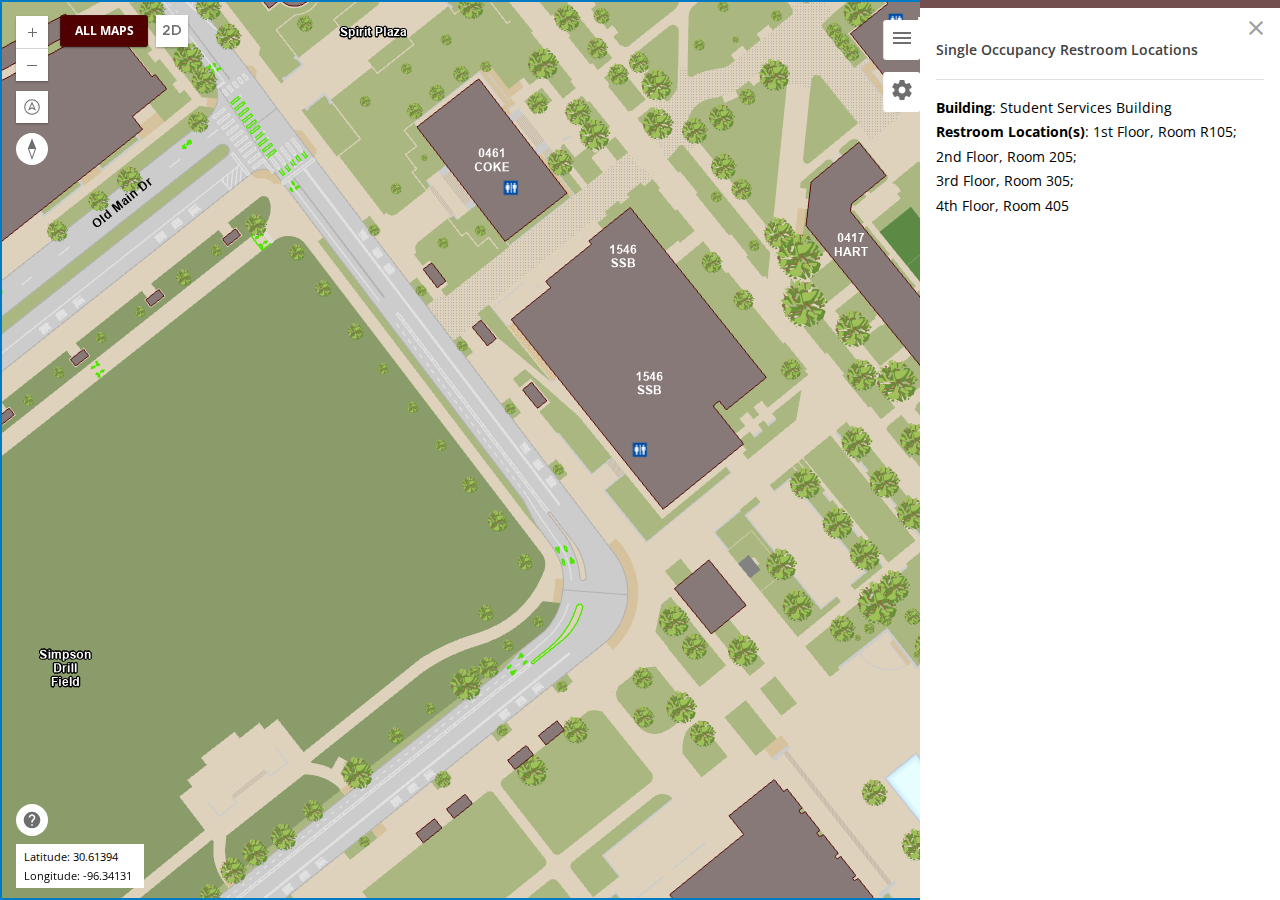
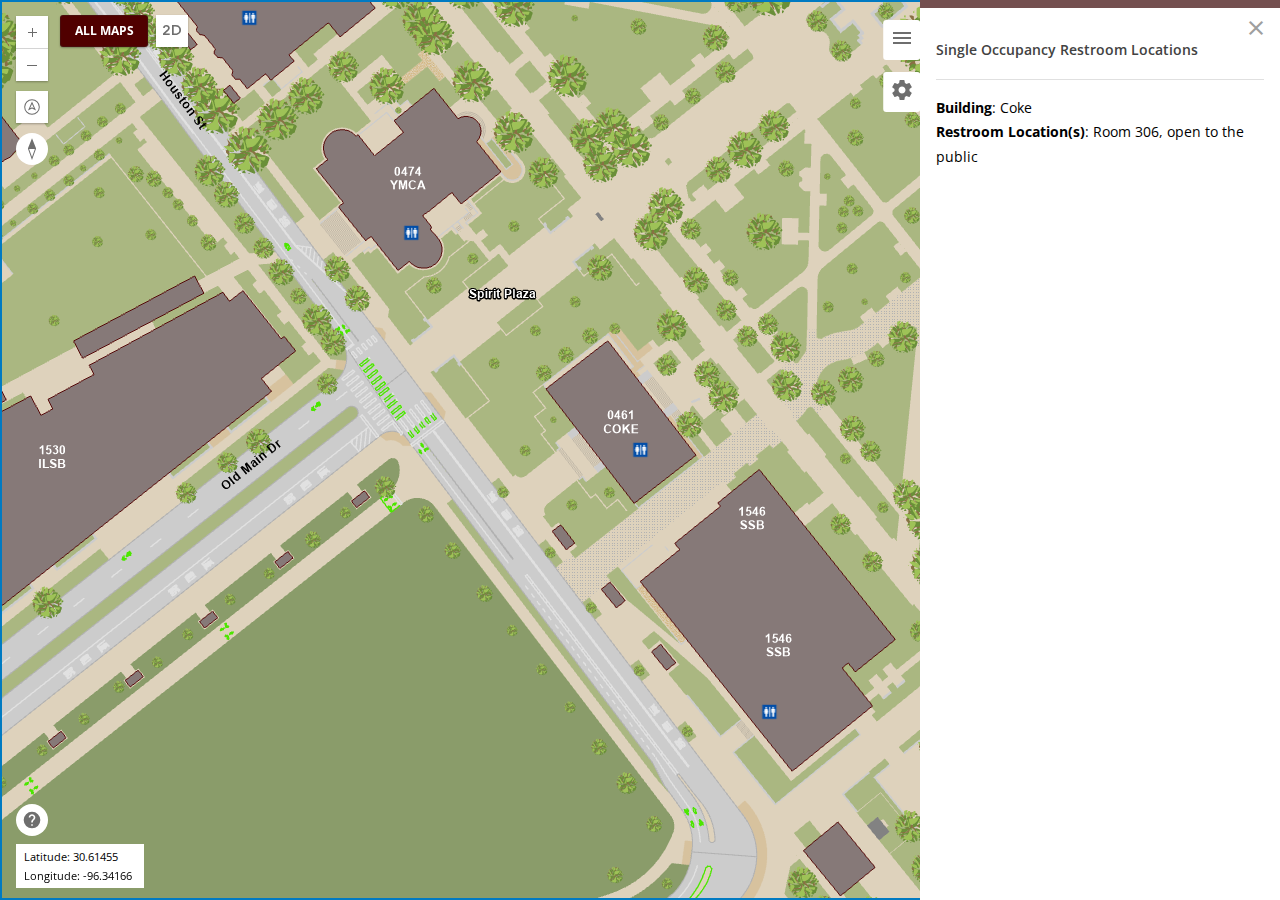
docs(aggiemap-angular): Release note and pictures for the restroom popup's building number (#1961)
Before: production today. After: this branch, built and served at 127.0.0.1 with ?as=production, so it
reads production's GIS server as dev cannot (#1005). Both on the Coke Building's restroom, whose number is
right; the Student Services Building's is wrong in the service (#2529).

diff --git a/libs/aggiemap/ngx/popups/src/lib/components/restroom/restroom.component.spec.ts b/libs/aggiemap/ngx/popups/src/lib/components/restroom/restroom.component.spec.ts
@@ -16,7 +16,8 @@ import { RestroomPopupComponent } from './restroom.component';
  *
  * The service names the building number `BldgNum`; the popup read `Bldg_Number`, which it does not
  * have, so "Building Number:" was always empty. The restroom below is one of the service's own, as it
- * answered on 28 October 2026. Its `Notes` are written with <br>, so they are rendered as HTML.
+ * answered on 28 October 2026. Its `Notes` are written with <br>, so they are rendered as HTML. Its building
+ * number is wrong in the service (the building is 1546, #2529); the popup shows what the service holds.
  */
 const RESTROOM = {
   OBJECTID: 407,

diff --git a/docs/releases/unreleased/1961-restroom-popup.md b/docs/releases/unreleased/1961-restroom-popup.md
@@ -1,0 +1,18 @@
+---
+issue: 1961
+title: The restroom popup shows the building number
+testOnDev: |
+  | The Single Occupancy Restroom popup ([#1961](https://github.com/TamuGeoInnovation/Tamu.GeoInnovation.js.monorepo/issues/1961)) | [The main map as production shows it](https://dev.aggiemap.tamu.edu/map/d?as=production): turn on **Single Occupancy Restroom Locations** under Layers, then click a restroom symbol, for example the one on the Coke Building, beside Spirit Plaza. Dev's own GIS server does not publish this layer ([#1005](https://github.com/TamuGeoInnovation/Tamu.GeoInnovation.js.monorepo/issues/1005)), which is why the link asks for production's | The popup is headed *Unisex Restroom* and shows the building's name, **Building 0461** under it, and the room (*Room 306, open to the public*). A building with restrooms on several floors lists each floor on its own line, as the Student Services Building does. Its number there is wrong in the service itself, [#2529](https://github.com/TamuGeoInnovation/Tamu.GeoInnovation.js.monorepo/issues/2529) |
+---
+
+### The restroom popup shows the building number
+
+Clicking a single-occupancy restroom now shows the number of the building it is in, under the building's name,
+with the rooms below
+([#1961](https://github.com/TamuGeoInnovation/Tamu.GeoInnovation.js.monorepo/issues/1961)). The popup used to
+show the building's name and rooms only. A restroom with no building number, or no rooms listed, leaves that row
+out rather than showing a label with nothing beside it.
+
+| Before | After |
+| --- | --- |
+| ![The popup with the building name and rooms, and no building number](../screenshots/1961-restroom-popup/before-production.png) | ![The popup headed Unisex Restroom, with the building name, Building 0461, and the room](../screenshots/1961-restroom-popup/after.png) |
